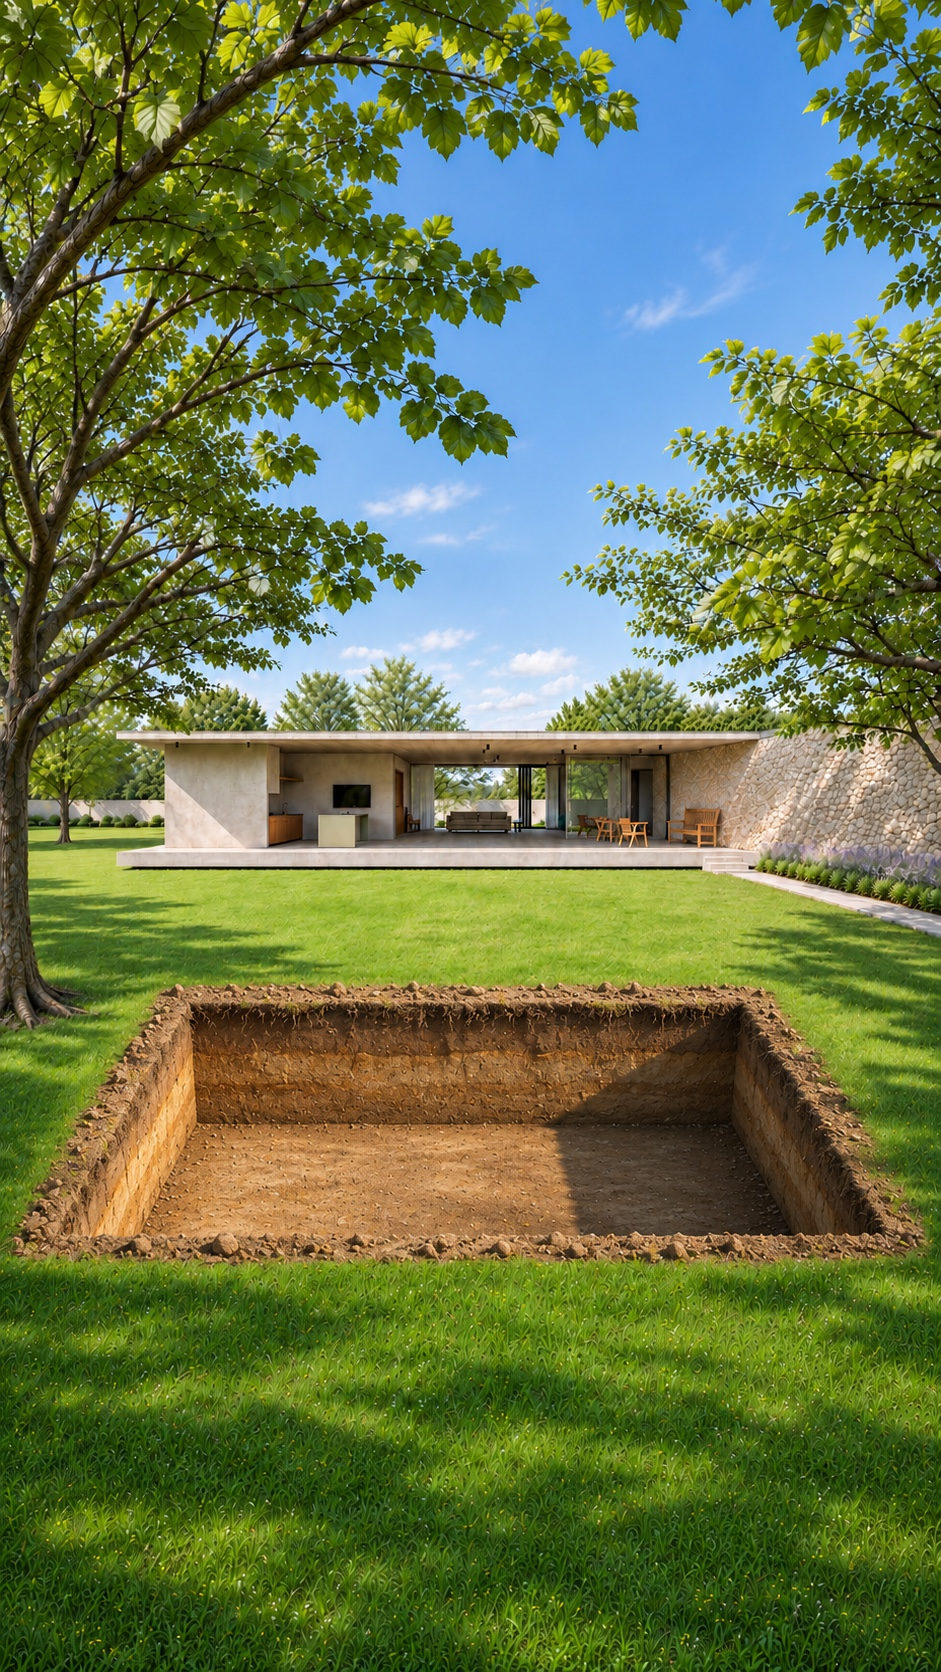
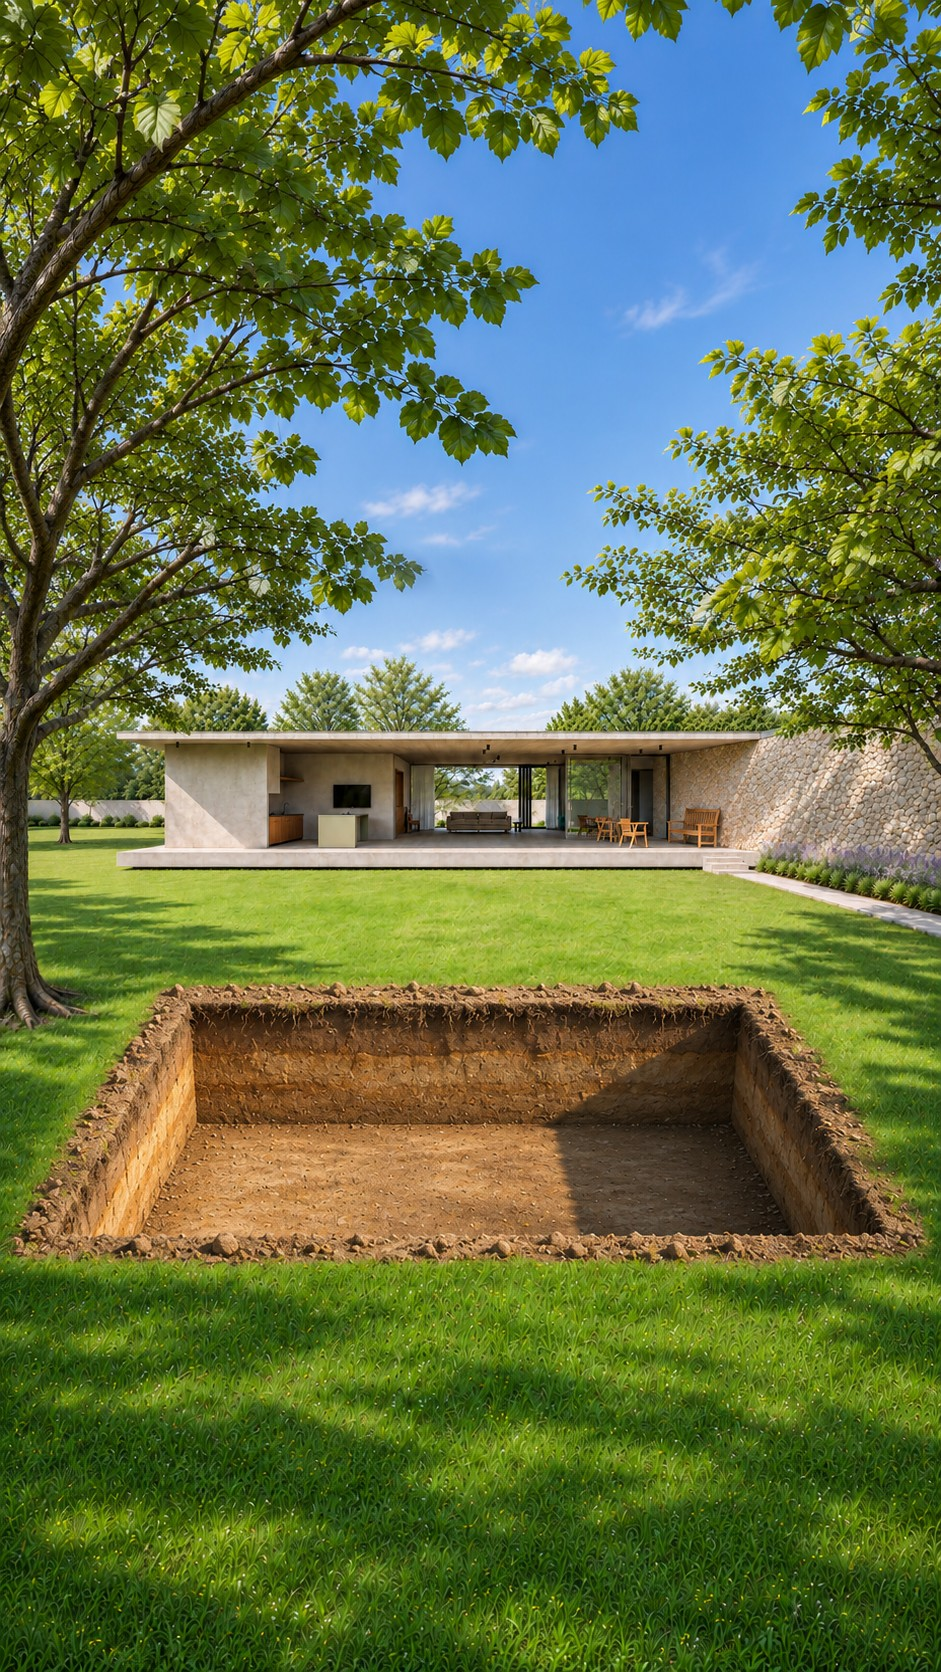
Hero su telefono: tutte e 6 le fasi verticali (cielo, casa e alberi uniformati dalla fase 01)

Changed region(s): [[0.0, 0.0, 1.0, 0.5287], [0.6472, 0.4976, 0.678, 0.5287], [0.0, 0.4976, 0.0308, 0.5287]]

diff --git a/index.html b/index.html
@@ -9,8 +9,8 @@
   <link rel="preconnect" href="https://fonts.googleapis.com" />
   <link rel="preconnect" href="https://fonts.gstatic.com" crossorigin />
   <link href="https://fonts.googleapis.com/css2?family=Anton&family=Inter:wght@400;500;600;700;800&display=swap" rel="stylesheet" />
-  <link rel="stylesheet" href="style.css?v=21" />
-  <link rel="stylesheet" href="home.css?v=21" />
+  <link rel="stylesheet" href="style.css?v=22" />
+  <link rel="stylesheet" href="home.css?v=22" />
   <!-- Librerie da CDN: three.js (hero), Lenis (scroll morbido), GSAP + ScrollTrigger (animazioni allo scorrimento) -->
   <script type="importmap">
     {
@@ -520,7 +520,7 @@
     </div>
   </footer>
 
-  <script type="module" src="main.js?v=21"></script>
-  <script type="module" src="home.js?v=21"></script>
+  <script type="module" src="main.js?v=22"></script>
+  <script type="module" src="home.js?v=22"></script>
 </body>
 </html>
